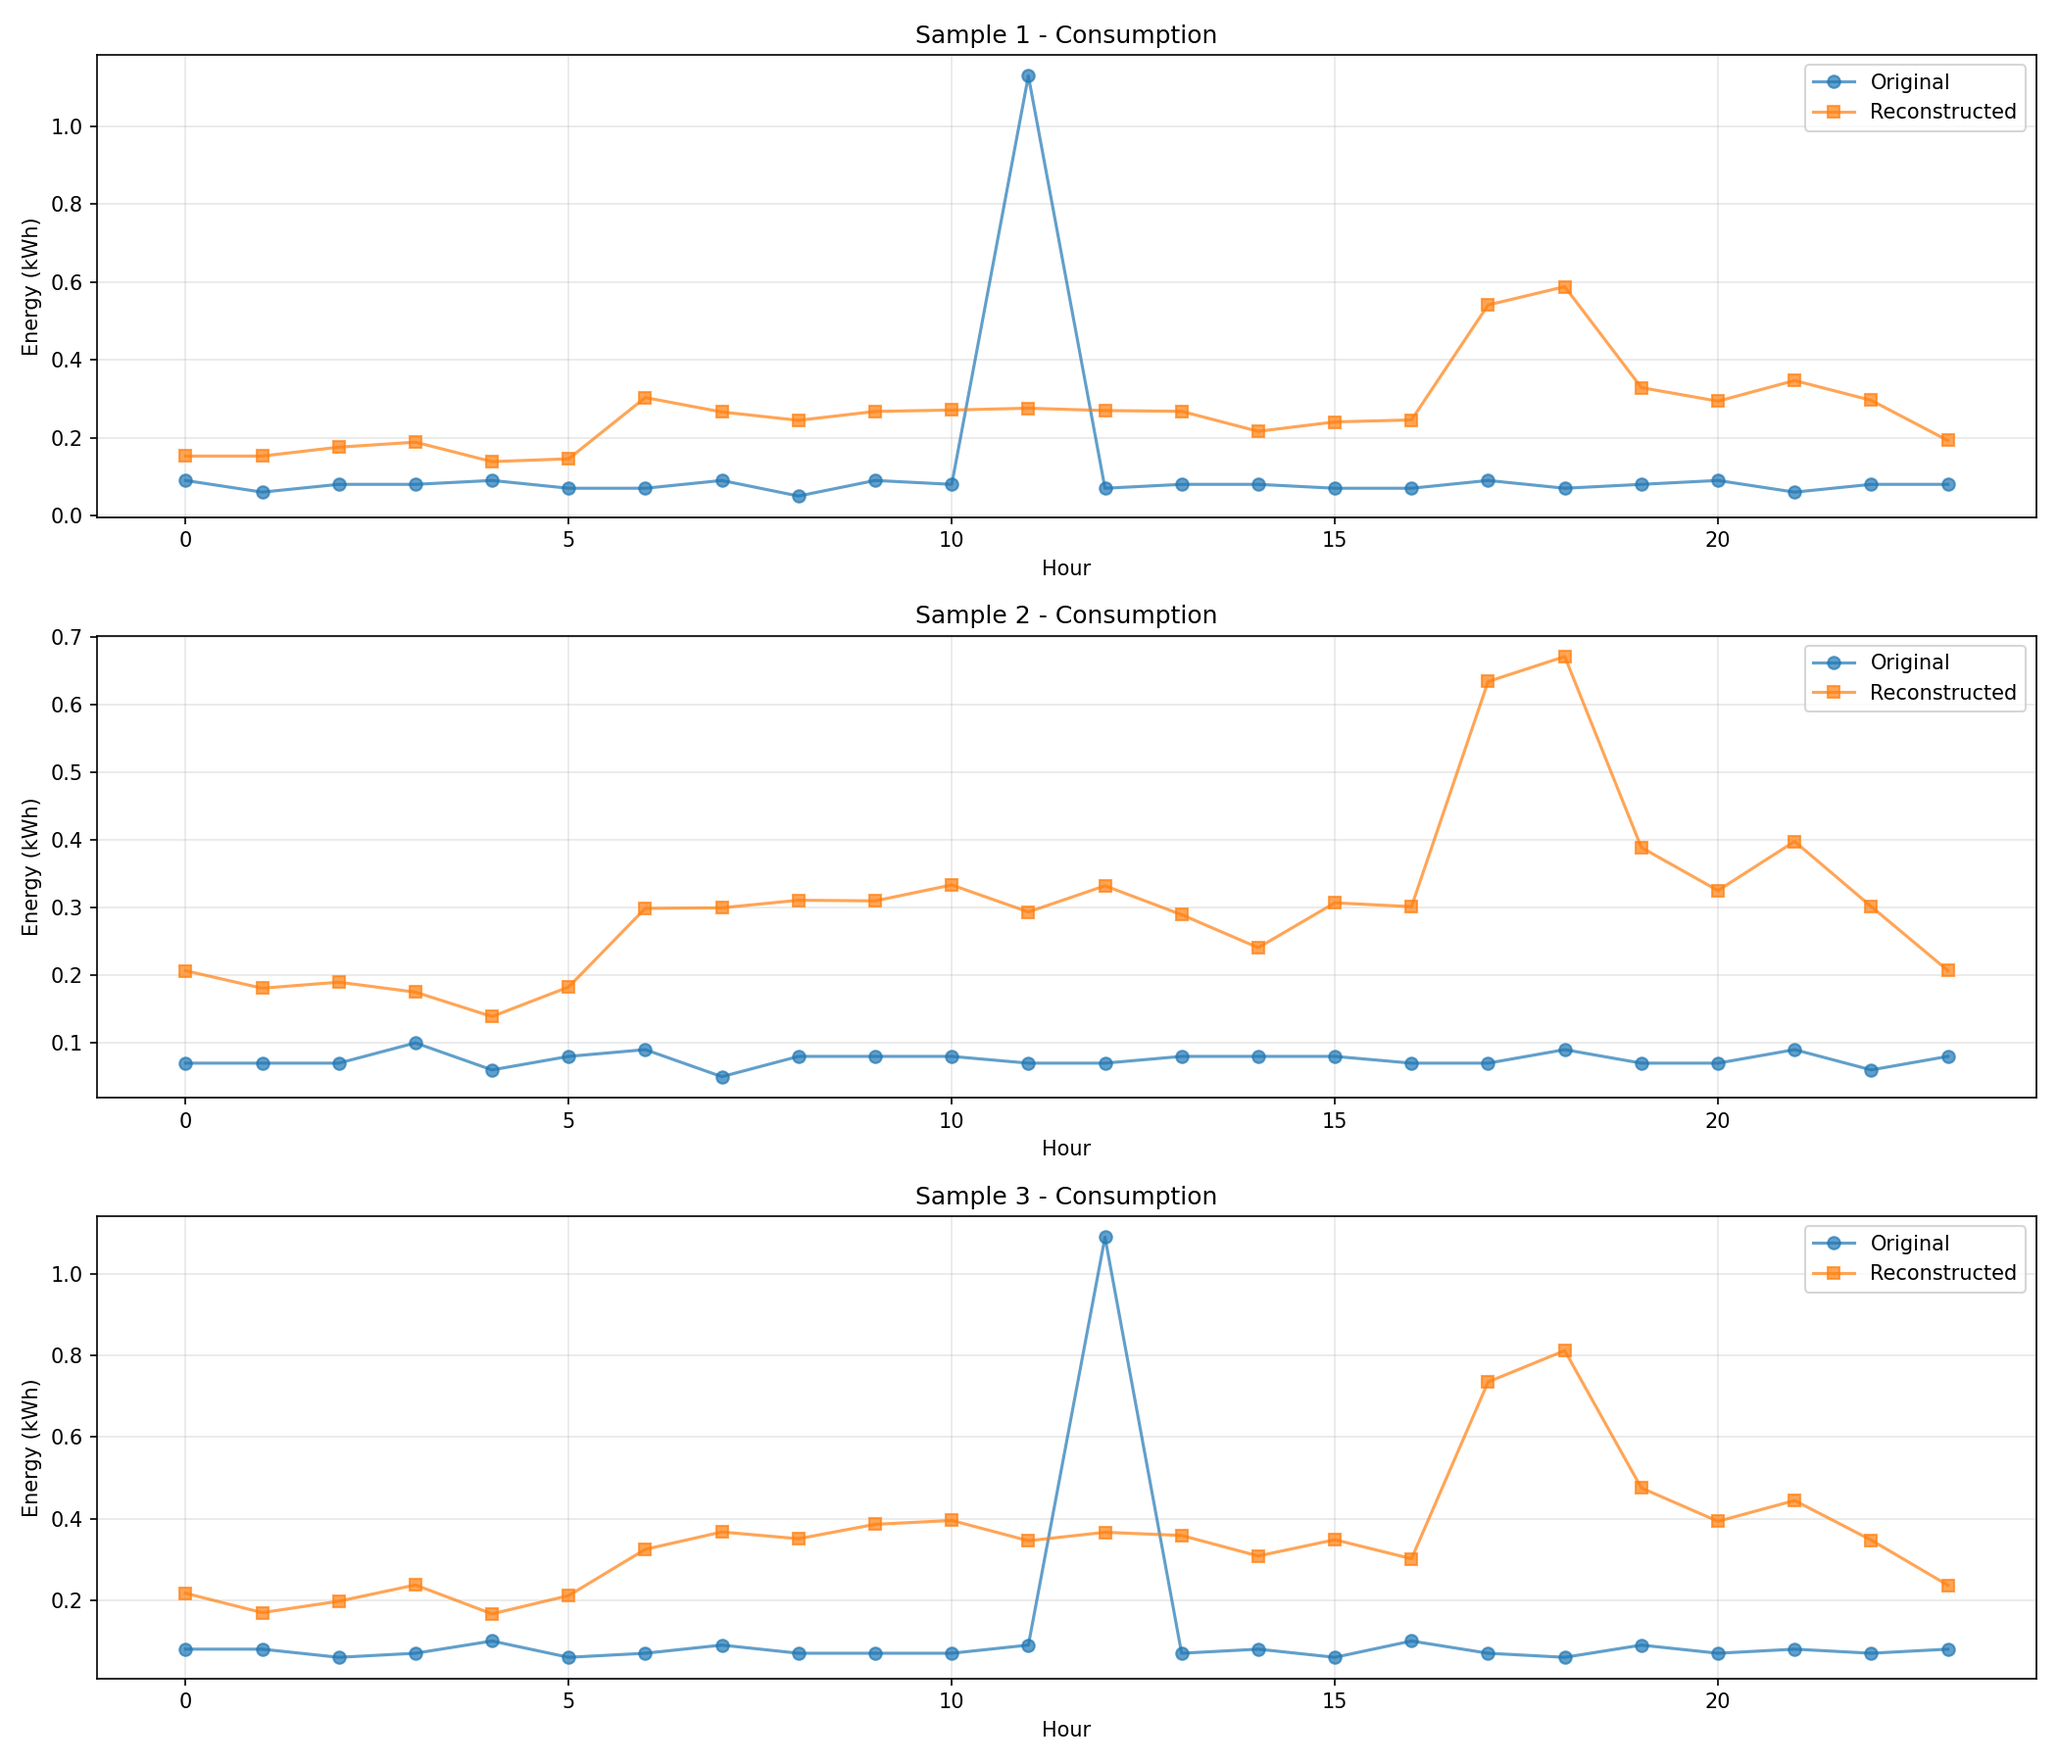
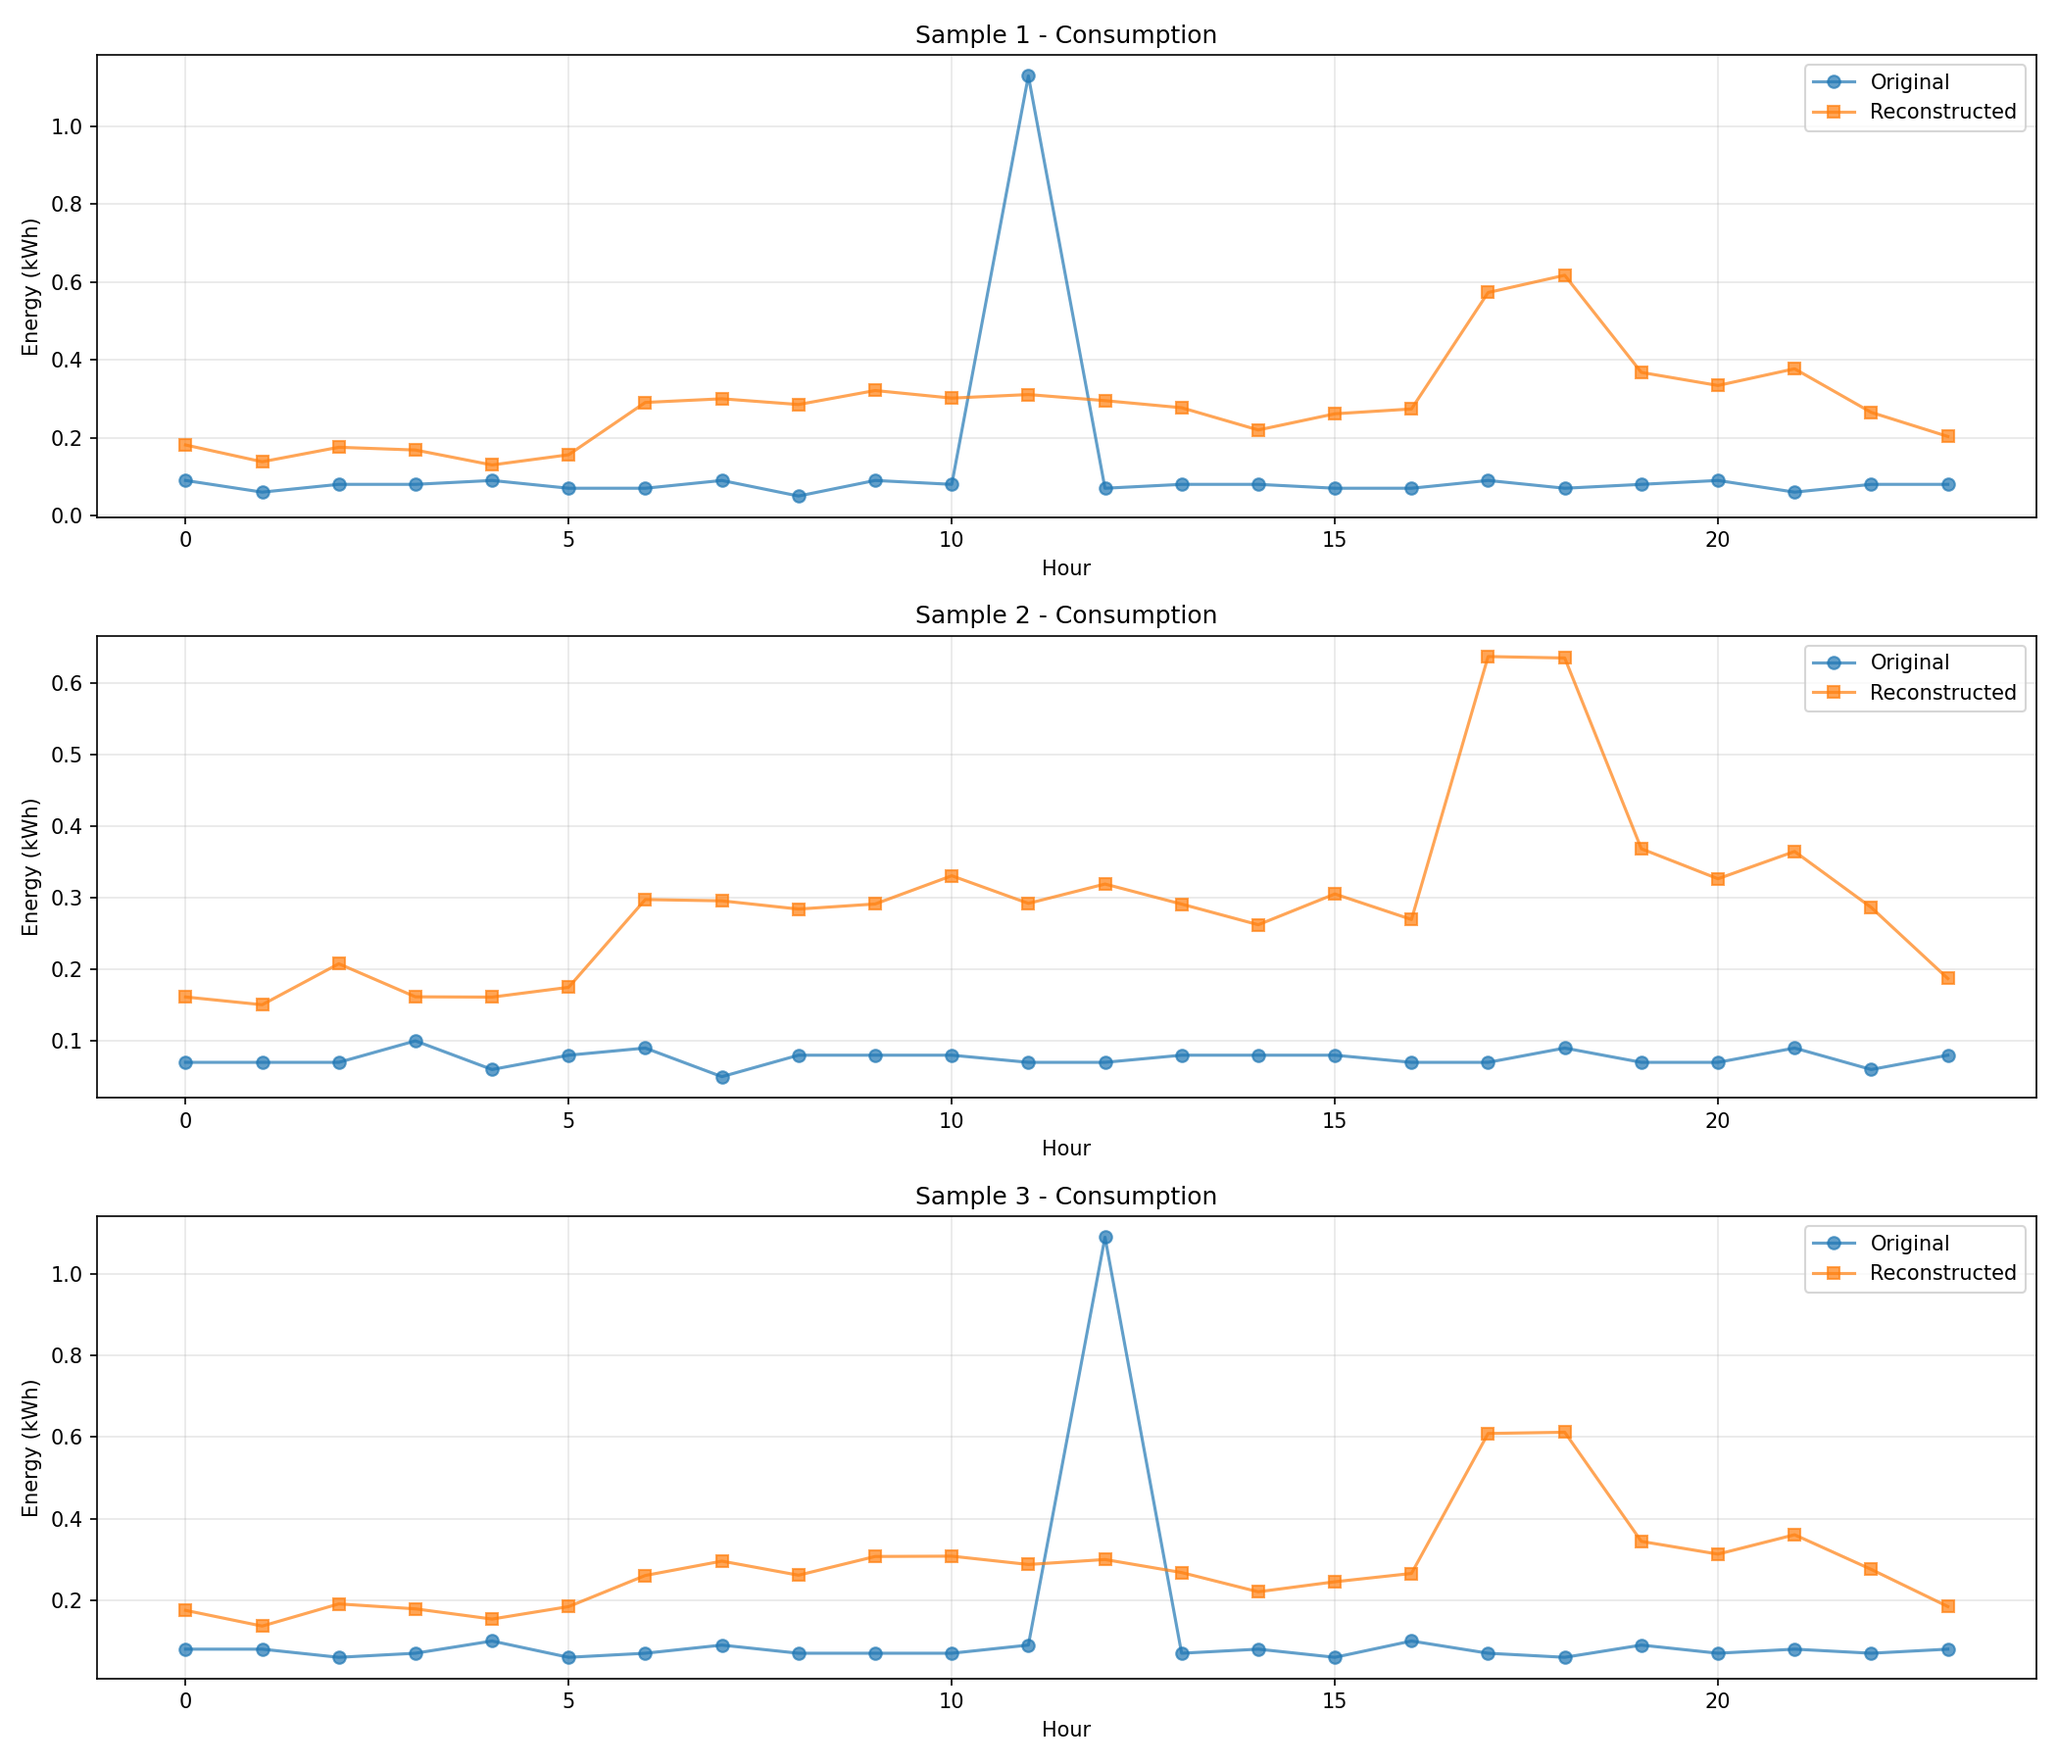
Small fixes to model and train, should run smoother

diff --git a/src/train.py b/src/train.py
@@ -8,6 +8,8 @@ from src.Conditioner import *
 from src.Models import *
 from src.dataloader import *
 from tqdm import tqdm
+import matplotlib.pyplot as plt
+from torch.utils.tensorboard import SummaryWriter
 
 # Set up device
 device = torch.device("cuda" if torch.cuda.is_available() else "cpu")
@@ -52,7 +54,7 @@ if __name__ == "__main__":
         seed=seed,
         train_frac=train_frac,
         val_frac=val_frac,
-        max_meters=10,
+        max_meters= None,
     )
 
     dm.setup()
@@ -96,14 +98,17 @@ if __name__ == "__main__":
     
     print("Training complete. Model saved as ", model_tag)
     
+    # Reopen TensorBoard writer for logging visualizations
+    log_dir_tagged = os.path.join('./runs/VAE_training', model_tag)
+    writer = SummaryWriter(log_dir=log_dir_tagged)
+    
     # Load the model for visualization
     VAE_model.to(device)
     VAE_model.prior_params = {key: val.to(device) for key, val in VAE_model.prior_params.items()}
     VAE_model.eval()
     
-    import matplotlib.pyplot as plt
-    
-    # Get test data for reconstruction visualization
+    # ===== RECONSTRUCTION VISUALIZATION =====
+    print("\nGenerating reconstruction visualizations...")
     with torch.no_grad():
         for x in tqdm(test_loader, desc="Reconstruction", leave=False):
             x = x.to(device)
@@ -123,24 +128,35 @@ if __name__ == "__main__":
         axes = [axes]
     
     for i in range(num_samples_to_plot):
-        axes[i].plot(x_original[i, :, 0].cpu().numpy(), label='Original', marker='o', alpha=0.7)
-        axes[i].plot(recon_reshaped[i, :, 0].cpu().numpy(), label='Reconstructed', marker='s', alpha=0.7)
-        axes[i].set_title(f'Sample {i+1} - Consumption', fontsize=12)
+        axes[i].plot(x_original[i, :, 0].cpu().numpy(), label='Original', marker='o', alpha=0.7, linewidth=2)
+        axes[i].plot(recon_reshaped[i, :, 0].cpu().numpy(), label='Reconstructed', marker='s', alpha=0.7, linewidth=2)
+        axes[i].set_title(f'Sample {i+1} - Energy Consumption', fontsize=12, fontweight='bold')
         axes[i].set_xlabel('Hour', fontsize=10)
         axes[i].set_ylabel('Energy (kWh)', fontsize=10)
-        axes[i].legend()
+        axes[i].legend(fontsize=10)
         axes[i].grid(True, alpha=0.3)
     
     plt.tight_layout()
     plt.savefig('Output/Plots/reconstruction_comparison.png', dpi=150)
     print("Saved reconstruction comparison to Output/Plots/reconstruction_comparison.png")
     plt.close()
+
+    # Save to file
+    os.makedirs('Output/Plots', exist_ok=True)
+    reconstruction_path = f'Output/Plots/{model_tag}_reconstruction.png'
+    plt.savefig(reconstruction_path, dpi=150, bbox_inches='tight')
+    print(f"Saved reconstruction comparison to {reconstruction_path}")
+    
+    # Add to TensorBoard
+    writer.add_figure('Validation/Reconstructions', fig, global_step=0)
+    plt.close()
     
     #use case:
     # Create 10k synthetic samples to instantiate a new transformer station
     # some users dont have ev's, so we input them and add condition on ev
 
-    # Generate synthetic samples
+    # ===== SYNTHETIC SAMPLES VISUALIZATION =====
+    print("Generating synthetic samples...")
     with torch.no_grad():
         num_synthetic = 5
         latent_dim = VAE_model.prior_params["mu"].shape[1]
@@ -157,16 +173,86 @@ if __name__ == "__main__":
         axes = [axes]
     
     for i in range(num_synthetic):
-        axes[i].plot(synthetic_data[i, :, 0].cpu().numpy(), marker='o', color='green', alpha=0.7)
-        axes[i].set_title(f'Synthetic Sample {i+1} - Consumption', fontsize=12)
+        axes[i].plot(synthetic_data[i, :, 0].cpu().numpy(), marker='o', color='green', alpha=0.7, linewidth=2)
+        axes[i].set_title(f'Synthetic Sample {i+1} - Energy Consumption', fontsize=12, fontweight='bold')
         axes[i].set_xlabel('Hour', fontsize=10)
         axes[i].set_ylabel('Energy (kWh)', fontsize=10)
         axes[i].grid(True, alpha=0.3)
     
     plt.tight_layout()
-    plt.savefig('Output/Plots/synthetic_samples.png', dpi=150)
-    print("Saved synthetic samples to synthetic_samples.png")
+    
+    # Save to file
+    synthetic_path = f'Output/Plots/{model_tag}_synthetic.png'
+    plt.savefig(synthetic_path, dpi=150, bbox_inches='tight')
+    print(f"Saved synthetic samples to {synthetic_path}")
+    
+    # Add to TensorBoard
+    writer.add_figure('Validation/Synthetic_Samples', fig, global_step=0)
+    plt.close()
+
+    # ===== COMPARISON PLOT =====
+    print("Generating comparison visualization...")
+    fig, axes = plt.subplots(1, 3, figsize=(18, 5))
+    
+    # Plot 1: Original samples
+    for i in range(min(3, x_original.shape[0])):
+        axes[0].plot(x_original[i, :, 0].cpu().numpy(), alpha=0.6, label=f'Sample {i+1}')
+    axes[0].set_title('Original Samples', fontsize=12, fontweight='bold')
+    axes[0].set_xlabel('Hour', fontsize=10)
+    axes[0].set_ylabel('Energy (kWh)', fontsize=10)
+    axes[0].legend(fontsize=8)
+    axes[0].grid(True, alpha=0.3)
+    
+    # Plot 2: Reconstructed samples
+    for i in range(min(3, recon_reshaped.shape[0])):
+        axes[1].plot(recon_reshaped[i, :, 0].cpu().numpy(), alpha=0.6, label=f'Sample {i+1}')
+    axes[1].set_title('Reconstructed Samples', fontsize=12, fontweight='bold')
+    axes[1].set_xlabel('Hour', fontsize=10)
+    axes[1].set_ylabel('Energy (kWh)', fontsize=10)
+    axes[1].legend(fontsize=8)
+    axes[1].grid(True, alpha=0.3)
+    
+    # Plot 3: Synthetic samples
+    for i in range(min(3, synthetic_data.shape[0])):
+        axes[2].plot(synthetic_data[i, :, 0].cpu().numpy(), alpha=0.6, label=f'Sample {i+1}', color='green')
+    axes[2].set_title('Synthetic Samples', fontsize=12, fontweight='bold')
+    axes[2].set_xlabel('Hour', fontsize=10)
+    axes[2].set_ylabel('Energy (kWh)', fontsize=10)
+    axes[2].legend(fontsize=8)
+    axes[2].grid(True, alpha=0.3)
+    
+    plt.tight_layout()
+
+    # Save comparison
+    comparison_path = f'Output/Plots/{model_tag}_comparison.png'
+    plt.savefig(comparison_path, dpi=150, bbox_inches='tight')
+    print(f"Saved comparison plot to {comparison_path}")
+    
+    # Add to TensorBoard
+    writer.add_figure('Validation/Comparison', fig, global_step=0)
     plt.close()
     
-    print("Validation and visualization complete.")
-    print(f"View TensorBoard logs with: tensorboard --logdir=./runs/VAE_training")
+    # ===== STATISTICS =====
+    # Log sample statistics to TensorBoard
+    writer.add_scalar('Validation/Original_Mean', x_original.mean().item(), 0)
+    writer.add_scalar('Validation/Original_Std', x_original.std().item(), 0)
+    writer.add_scalar('Validation/Reconstructed_Mean', recon_reshaped.mean().item(), 0)
+    writer.add_scalar('Validation/Reconstructed_Std', recon_reshaped.std().item(), 0)
+    writer.add_scalar('Validation/Synthetic_Mean', synthetic_data.mean().item(), 0)
+    writer.add_scalar('Validation/Synthetic_Std', synthetic_data.std().item(), 0)
+    
+    # Reconstruction error
+    mse = ((x_original - recon_reshaped) ** 2).mean().item()
+    mae = (x_original - recon_reshaped).abs().mean().item()
+    writer.add_scalar('Validation/MSE', mse, 0)
+    writer.add_scalar('Validation/MAE', mae, 0)
+    
+    print(f"\nValidation Metrics:")
+    print(f"  Reconstruction MSE: {mse:.4f}")
+    print(f"  Reconstruction MAE: {mae:.4f}")
+    
+    # Close writer
+    writer.close()
+    
+    print("\nValidation and visualization complete.")
+    print(f"View TensorBoard logs with: tensorboard --logdir=./runs/VAE_training/{model_tag}")

diff --git a/src/Models.py b/src/Models.py
@@ -285,8 +285,11 @@ class VAE(nn.Module):
                 'early_stopping': early_stopping,
             },
             'model_architecture': {
+                'class_name': self.__class__.__name__,
                 'input_dim': self.input_dim,
                 'num_parameters': self.num_parameters,
+                'encoder': self.encoder.__class__.__name__,
+                'decoder': self.decoder.__class__.__name__,
             }
         }
         with open(config_path, 'w') as f:
@@ -314,8 +317,9 @@ class VAE(nn.Module):
         if early_stopping:
             earlystopping = EarlyStopping(**early_stopping_kwargs)
 
-        # Log model graph
+        # === Log model graph ====
         try:
+            # TODO: is very blurry, but might be somewhat nice to have
             # Get a sample batch from the trainloader
             sample_batch = next(iter(trainloader))
             sample_batch = self.move_to_device(sample_batch, device)
@@ -336,10 +340,18 @@ class VAE(nn.Module):
                     return recon_params['mu'], posterior_params['mu']
             
             wrapper = ModelWrapper(self)
-            writer.add_graph(wrapper, sample_batch)
+            
+            # Suppress tracing warnings (expected for stochastic models like VAE)
+            import warnings
+            with warnings.catch_warnings():
+                warnings.filterwarnings("ignore", category=torch.jit.TracerWarning)
+                warnings.filterwarnings("ignore", message="Encountering a dict")
+                writer.add_graph(wrapper, sample_batch)
+            
             print("Model graph logged to TensorBoard")
+            
         except Exception as e:
-            print(f"Could not log model graph to TensorBoard: {e}")
+            print(f"Note: Could not log computational graph ({str(e)})")
     
         # === Training Loop ===
         self.train()
